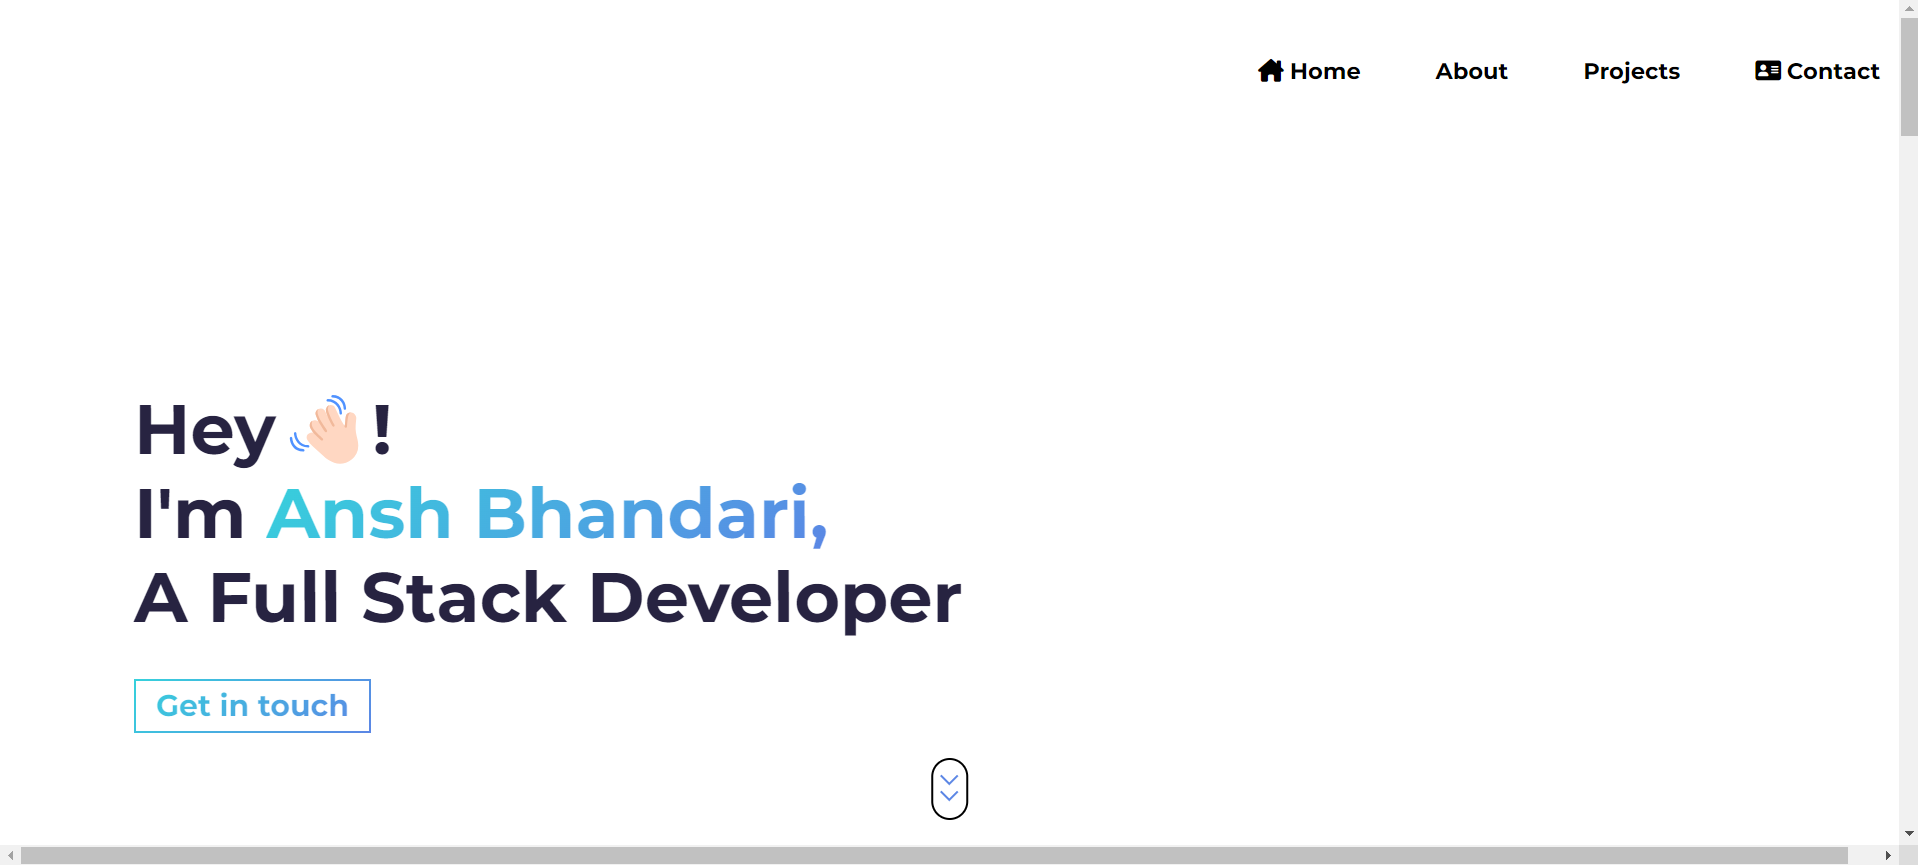
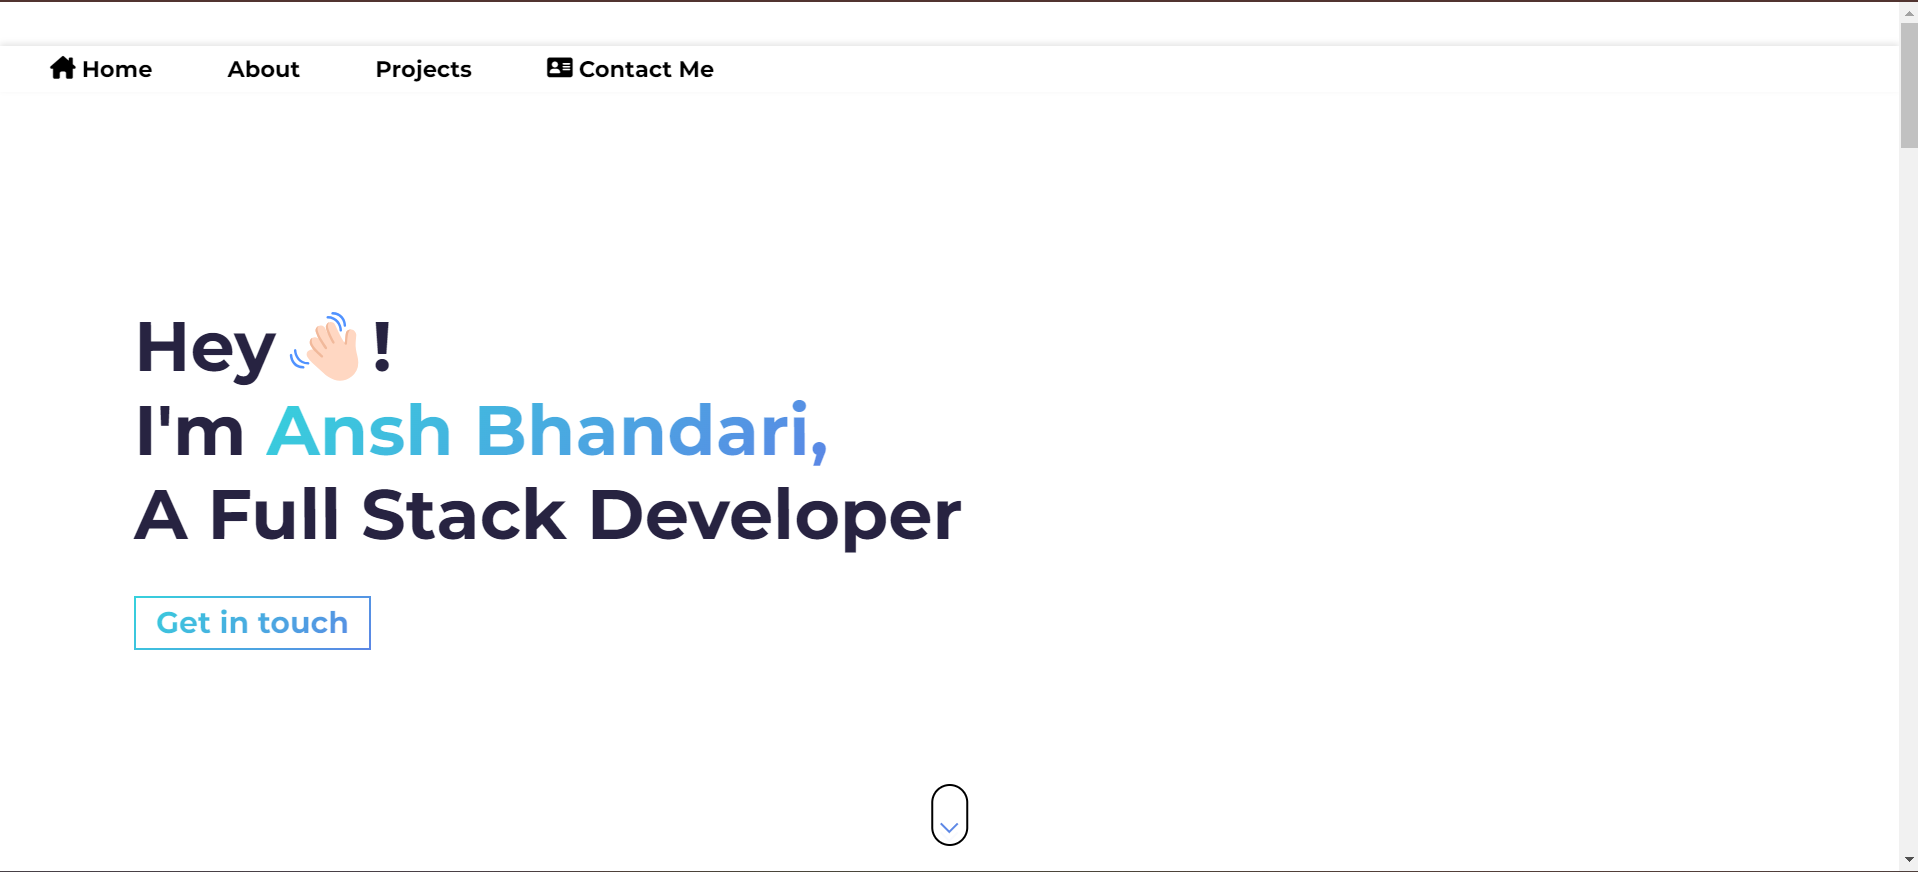
added portfolio website

diff --git a/index.html b/index.html
@@ -20,7 +20,7 @@
     <link rel="icon" type="image/png" href="./assets/header.png" />
     <meta name="theme-color" content="#36d1dc" />
     <meta property="og:type" content="website" />
-    <meta property="og:url" content="ansh-bhandari.netlify.app" />
+    <meta property="og:url" content="https://ansh-bhandari.netlify.app/" />
     <meta property="og:title" content=" Ansh Bhandari | Portfolio" />
     <meta
       property="og:description"
@@ -29,7 +29,7 @@
     <meta property="og:image" content="./assets/portfolio.png" />
 
     <meta property="twitter:card" content="summary_large_image" />
-    <meta property="twitter:url" content="#" />
+    <meta property="twitter:url" content="https://ansh-bhandari.netlify.app/" />
     <meta property="twitter:title" content=" Ansh Bhandari | Portfolio" />
     <meta
       property="twitter:description"
@@ -99,35 +99,36 @@
       src="./javascript/scrollveal.js"
     ></script>
     <script src="https://code.jquery.com/jquery-3.6.0.min.js"></script>
-
-    
-    
   </head>
   <body>
-    <nav class="navbar">  
+    <nav class="navbar">
       <ul>
-          <li><a href="#hero"><i class="fa-solid fa-house-chimney"></i> Home</a></li>
-          <li><a href="#about">About</a></li>
-          <li><a href="#projects">Projects</a></li>
-          <li><a href="#contact"><i class="fa-solid fa-address-card"></i> Contact Me</a></li>
-          
+        <li>
+          <a href="#hero"><i class="fa-solid fa-house-chimney"></i> Home</a>
+        </li>
+        <li><a href="#about">About</a></li>
+        <li><a href="#projects">Projects</a></li>
+        <li>
+          <a href="#contact"
+            ><i class="fa-solid fa-address-card"></i> Contact Me</a
+          >
+        </li>
       </ul>
-  </nav>
+    </nav>
     <!-- Hero Section -->
     <div id="hero">
       <section class="container">
         <h1 class="hero-title">
-          Hey👋🏻! 
+          Hey👋🏻!
           <br />
           I'm <span class="text-color-main name"> Ansh Bhandari,</span>
-          <br/>  
+          <br />
           A Full Stack Developer
         </h1>
 
         <p class="hero-cta">
           <a class="cta-btn cta-btn--hero" href="#about">Get in touch</a>
         </p>
-        
       </section>
       <a href="#about" class="scroll-down-link" aria-label="scroll-down">
         <div class="scroll-down"></div>
@@ -145,7 +146,6 @@
               class="img-fluid"
               src="./assets/profile.png"
               alt="Profile Image"
-             
             />
           </div>
           <div class="about-wrapper__info">
@@ -218,6 +218,51 @@
           </article>
           <!--Paperless Pages Project -->
 
+          <!--My Portfolio-->
+          <article class="row">
+            <div class="project-wrapper__text">
+              <h3 class="project-wrapper__text-title">Portfolio Website</h3>
+              <p class="project-wrapper__text-info">
+                My portfolio is built with a robust tech stack including HTML,
+                CSS, SCSS, and JavaScript. It showcases my projects and skills
+                through an interactive and responsive design, reflecting my
+                expertise in modern web development.
+              </p>
+              <div class="project-wrapper__text-btns">
+                <a
+                  href="https://ansh-bhandari.netlify.app/"
+                  target="_blank"
+                  rel="noopener noreferrer"
+                  class="cta-btn cta-btn--hero cta-btn--projects"
+                  >Live</a
+                >
+                &nbsp;&nbsp;&nbsp;&nbsp;&nbsp;&nbsp;&nbsp;&nbsp;&nbsp;&nbsp;&nbsp;&nbsp;&nbsp;&nbsp;&nbsp;&nbsp;&nbsp;&nbsp;&nbsp;&nbsp;&nbsp;&nbsp;&nbsp;&nbsp;&nbsp;&nbsp;&nbsp;&nbsp;&nbsp;&nbsp;&nbsp;&nbsp;&nbsp;&nbsp;
+                <a
+                  href="https://github.com/Ansh0407/MyPortfolio"
+                  target="_blank"
+                  rel="noopener noreferrer"
+                  class="cta-btn cta-btn--hero cta-btn--projects"
+                  >Source Code</a
+                >
+              </div>
+            </div>
+
+            <div class="project-wrapper__image">
+              <a href="#" target="_blank" rel="noopener noreferrer">
+                <div class="thumbnail rounded">
+                  <img
+                    src="./assets/portfolio.png"
+                    class="img-fluid"
+                    alt="Project Image"
+                    width="1366"
+                    height="767"
+                  />
+                </div>
+              </a>
+            </div>
+          </article>
+
+          <!--Portfolio -->
           <!--T-Une Project -->
           <article class="row">
             <div class="project-wrapper__text">
@@ -355,8 +400,18 @@
         <div class="contact-wrapper w-100">
           <div class="card">
             <div class="card-body">
-              <form id="contact-form" class="w-100" action="https://api.web3forms.com/submit" method="POST" onsubmit="return handleSubmit(event)">
-                <input type="hidden" name="access_key" value="2d97cdf2-5592-4829-9af0-8274c10dcdc3">
+              <form
+                id="contact-form"
+                class="w-100"
+                action="https://api.web3forms.com/submit"
+                method="POST"
+                onsubmit="return handleSubmit(event)"
+              >
+                <input
+                  type="hidden"
+                  name="access_key"
+                  value="2d97cdf2-5592-4829-9af0-8274c10dcdc3"
+                />
                 <div class="form-group mb-4">
                   <label for="name">Your name</label>
                   <input
@@ -391,7 +446,8 @@
                   ></textarea>
                 </div>
                 <button type="submit" class="btn btn-default submit w-100">
-                  <i class="fa fa-paper-plane" aria-hidden="true"></i> Send Message
+                  <i class="fa fa-paper-plane" aria-hidden="true"></i> Send
+                  Message
                 </button>
               </form>
             </div>
@@ -464,23 +520,25 @@
     <script>
       function handleSubmit(event) {
         event.preventDefault(); // Prevent the default form submission
-        const form = document.getElementById('contact-form');
-        
+        const form = document.getElementById("contact-form");
+
         // Submit the form using AJAX
         fetch(form.action, {
           method: form.method,
           body: new FormData(form),
-        }).then(response => {
-          if (response.ok) {
-            alert('Message sent successfully!');
-            form.reset();
-            window.location.href = 'index.html'; 
-          } else {
-            alert('There was an issue sending your message.');
-          }
-        }).catch(error => {
-          alert('An error occurred. Please try again.');
-        });
+        })
+          .then((response) => {
+            if (response.ok) {
+              alert("Message sent successfully!");
+              form.reset();
+              window.location.href = "index.html";
+            } else {
+              alert("There was an issue sending your message.");
+            }
+          })
+          .catch((error) => {
+            alert("An error occurred. Please try again.");
+          });
       }
     </script>
   </body>
